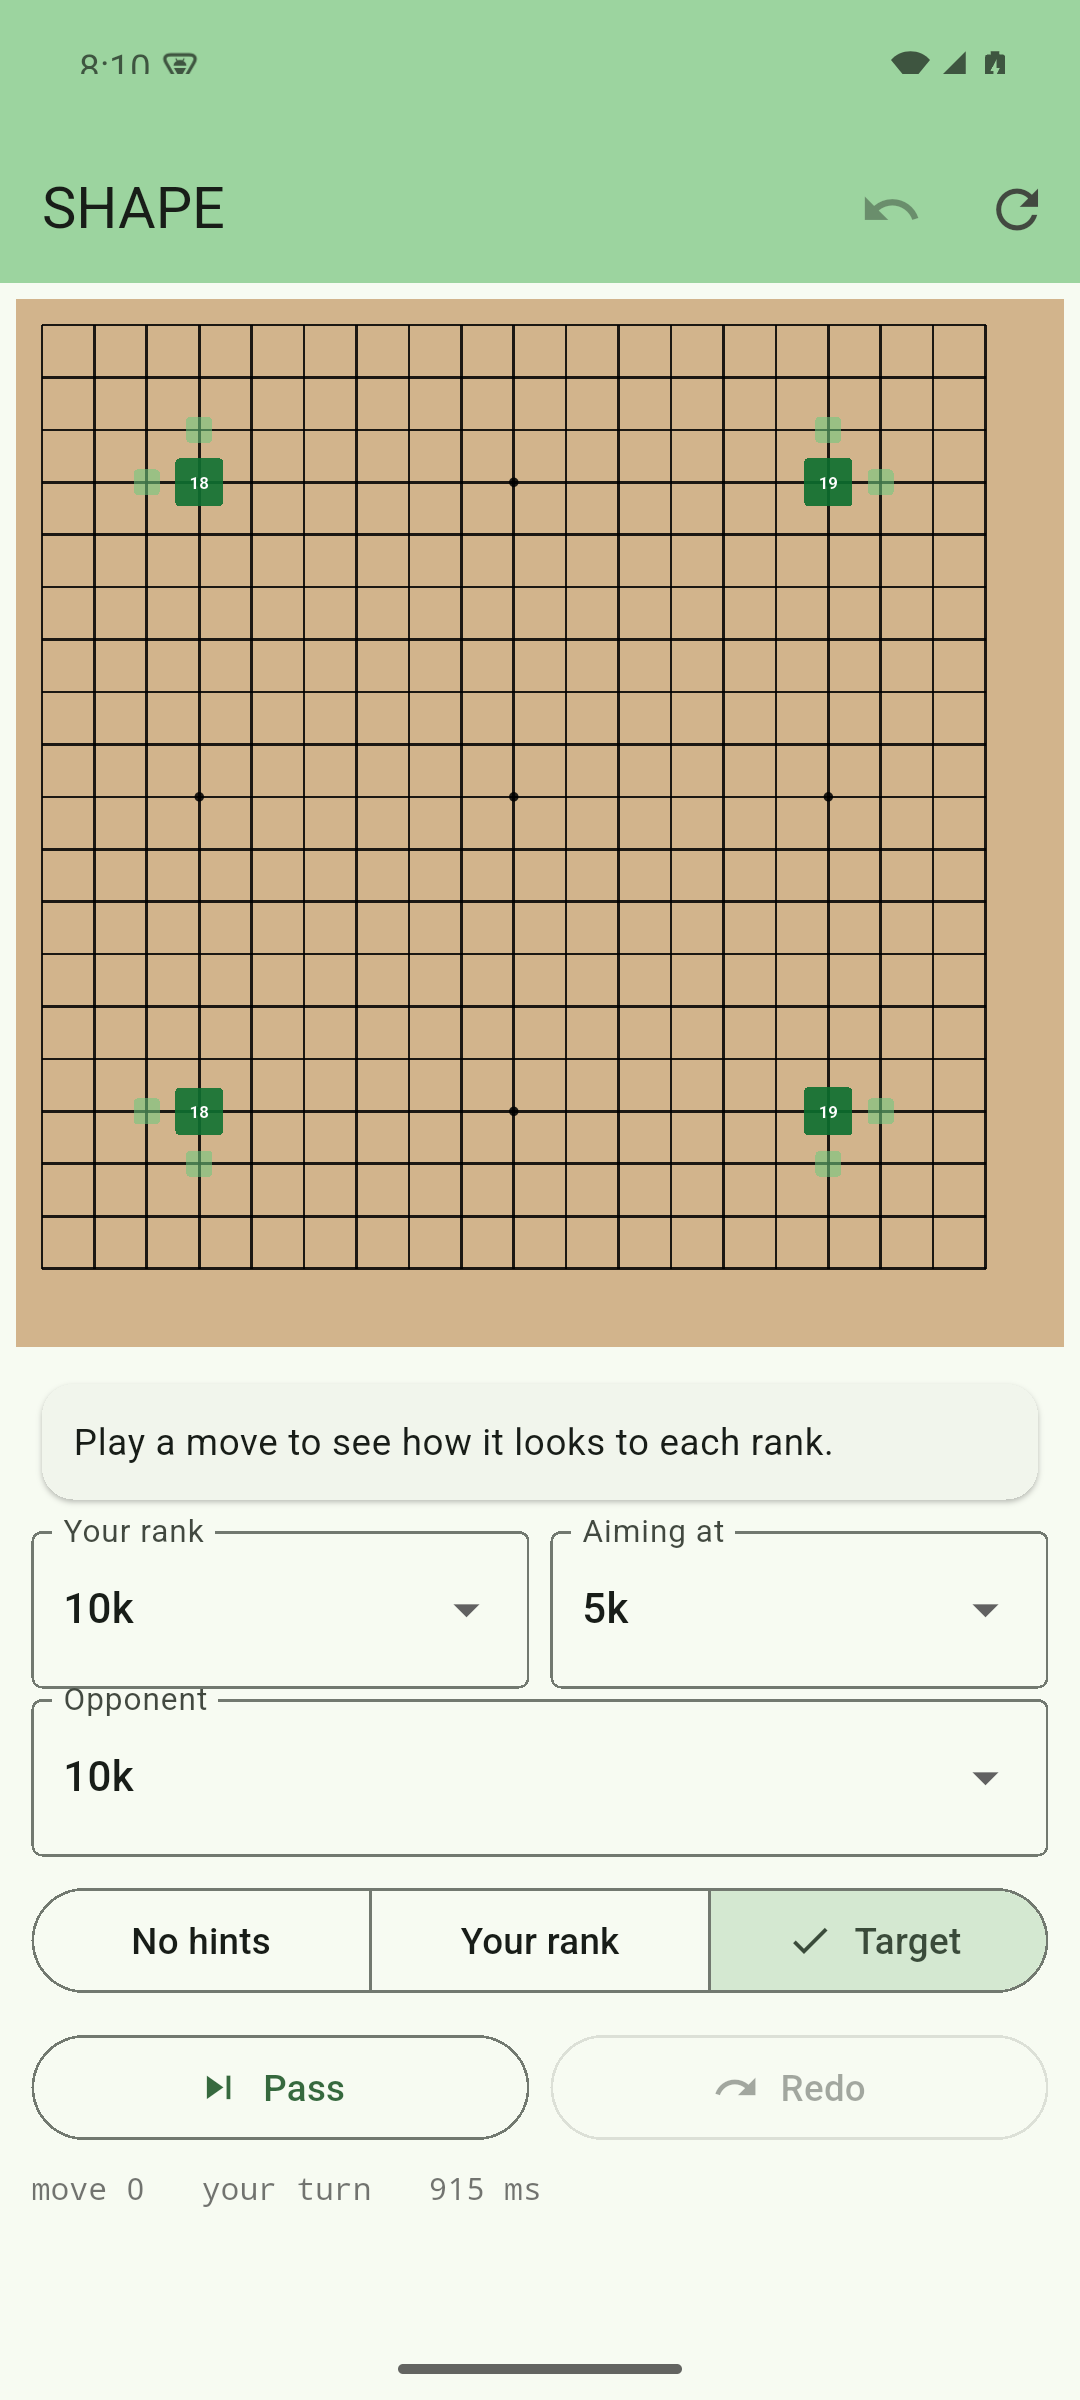
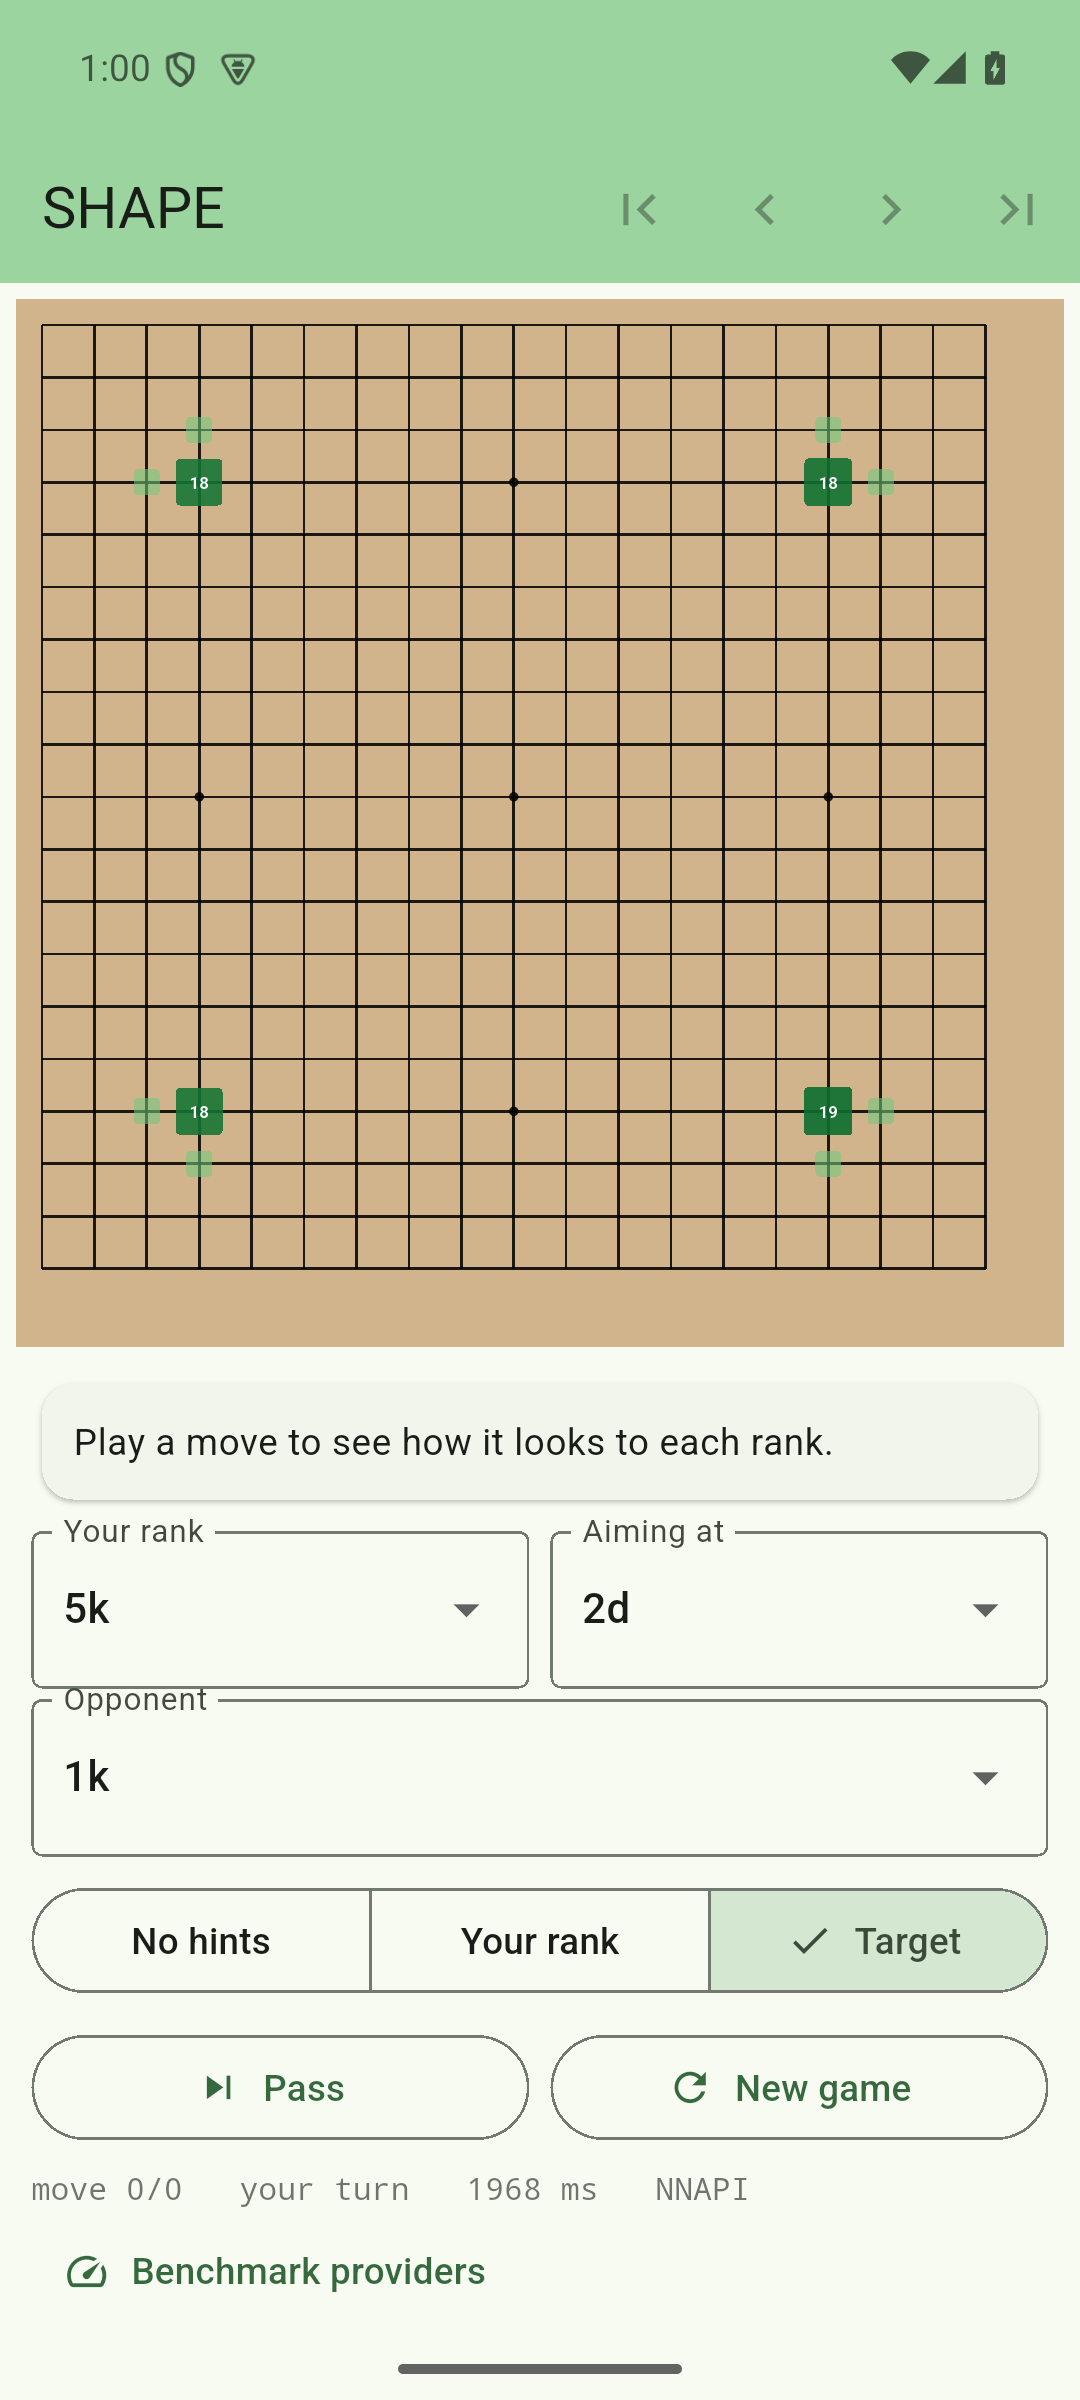
Try NNAPI, add a provider benchmark, stop rebuilding cached positions
Providers: sessions are now created with a preference order of
NNAPI -> XNNPACK -> CPU, falling through on failure, and the active one is shown
in the status line.

That name is not evidence, though: NNAPI partitions the graph and silently runs
unsupported ops on CPU, so a session that "uses NNAPI" can be entirely CPU work.
Added a Benchmark button that creates a session per provider, times it on the
current position and reports ms/eval, so the question is settled by measurement
on the actual device. It also times the Dart featurizer separately -- if the
ladder search dominates, no execution provider will help.

Caching: analyses were already cached per (position, profile), as on desktop,
but _updateFeedback rebuilt the previous position eagerly to pass it in, twice
per update, even on a pure cache hit. The position is now built lazily behind a
callback, and move coordinates are decoded from the current board rather than a
replayed one, since loc encoding depends only on board width. Browsing history
is now free when the data is cached, which is the normal case.

Claude-Session: https://claude.ai/code/session_01WzLv4wq2frvjfwwrF8Y6vq

diff --git a/mobile/shape_slice/lib/engine/analysis.dart b/mobile/shape_slice/lib/engine/analysis.dart
@@ -101,17 +101,99 @@ class ProfileAnalysis {
   ProfileAnalysis(this.policy, this.lead, this.winrate);
 }
 
+/// How one execution provider performed, for the in-app benchmark.
+class ProviderTiming {
+  final String provider;
+  final int? msPerEval;
+  final String? error;
+  const ProviderTiming(this.provider, this.msPerEval, this.error);
+  bool get ok => msPerEval != null;
+}
+
 /// Runs the human-SL net on device.
 class ShapeEngine {
   final OrtSession session;
   final Features features;
   final int posLen;
 
-  ShapeEngine(this.session, this.posLen) : features = Features(posLen);
+  /// Which execution provider initialised. Note this is only the provider ORT
+  /// *accepted*: NNAPI partitions the graph and silently runs unsupported ops on
+  /// CPU, so this being "NNAPI" does not by itself mean the NPU did the work.
+  /// Latency is the only real evidence -- see [benchmarkProviders].
+  final String provider;
 
-  static Future<ShapeEngine> load(String assetPath, {int posLen = 19}) async {
-    final session = await OnnxRuntime().createSessionFromAsset(assetPath);
-    return ShapeEngine(session, posLen);
+  ShapeEngine(this.session, this.posLen, this.provider) : features = Features(posLen);
+
+  /// Preference order on Android: NNAPI (NPU/GPU), then XNNPACK (optimised CPU),
+  /// then plain CPU.
+  static const List<OrtProvider> preferredProviders = [
+    OrtProvider.NNAPI,
+    OrtProvider.XNNPACK,
+    OrtProvider.CPU,
+  ];
+
+  static Future<ShapeEngine> load(
+    String assetPath, {
+    int posLen = 19,
+    List<OrtProvider>? prefer,
+  }) async {
+    Object? lastError;
+    for (final p in prefer ?? preferredProviders) {
+      try {
+        final session = await OnnxRuntime().createSessionFromAsset(
+          assetPath,
+          options: OrtSessionOptions(providers: [p]),
+        );
+        return ShapeEngine(session, posLen, p.name);
+      } catch (e) {
+        lastError = e;
+      }
+    }
+    throw StateError('no execution provider could load the model: $lastError');
+  }
+
+  /// Time each provider on [pos], creating and closing a session per provider.
+  ///
+  /// Deliberately measures rather than trusts: an NNAPI session that falls back to
+  /// CPU for most ops looks identical to a working one until you time it.
+  static Future<List<ProviderTiming>> benchmarkProviders(
+    String assetPath,
+    GoPosition pos, {
+    int posLen = 19,
+    int reps = 3,
+    String profile = 'rank_5k',
+  }) async {
+    final out = <ProviderTiming>[];
+
+    // Featurization is pure Dart and runs identically for every provider, so time it
+    // separately -- if the ladder search dominates, no execution provider will help.
+    final fsw = Stopwatch()..start();
+    for (var i = 0; i < reps; i++) {
+      Features(posLen).fillRowFeatures(pos);
+    }
+    out.add(ProviderTiming('featurizer (Dart)', fsw.elapsedMilliseconds ~/ reps, null));
+
+    for (final p in preferredProviders) {
+      OrtSession? session;
+      try {
+        session = await OnnxRuntime().createSessionFromAsset(
+          assetPath,
+          options: OrtSessionOptions(providers: [p]),
+        );
+        final engine = ShapeEngine(session, posLen, p.name);
+        await engine.analyze(pos, [profile]); // warm up
+        final sw = Stopwatch()..start();
+        for (var i = 0; i < reps; i++) {
+          await engine.analyze(pos, [profile]);
+        }
+        out.add(ProviderTiming(p.name, sw.elapsedMilliseconds ~/ reps, null));
+      } catch (e) {
+        out.add(ProviderTiming(p.name, null, '$e'.split('\n').first));
+      } finally {
+        await session?.close();
+      }
+    }
+    return out;
   }
 
   /// Evaluate [pos] under each of [profiles].

diff --git a/mobile/shape_slice/lib/game/shape_game.dart b/mobile/shape_slice/lib/game/shape_game.dart
@@ -154,17 +154,25 @@ class ShapeGame extends ChangeNotifier {
     await _maybeOpponentMove();
   }
 
-  Future<void> _analyze(int idx, GoPosition p, List<String> profiles) async {
+  /// Analyze position [idx] for [profiles], skipping anything already cached.
+  ///
+  /// The position is built lazily: replaying the line to rebuild it is not free,
+  /// and browsing history is almost always a pure cache hit.
+  Future<void> _analyze(
+    int idx,
+    GoPosition Function() buildPosition,
+    List<String> profiles,
+  ) async {
     final want =
         profiles.where((x) => !(analyses[idx]?.containsKey(x) ?? false)).toList();
     if (want.isEmpty) return;
     final sw = Stopwatch()..start();
-    final result = await engine.analyze(p, want);
+    final result = await engine.analyze(buildPosition(), want);
     analysisMs = sw.elapsedMilliseconds;
     (analyses[idx] ??= {}).addAll(result);
   }
 
-  Future<void> _analyzeCurrent() => _analyze(cursor, pos, activeProfiles);
+  Future<void> _analyzeCurrent() => _analyze(cursor, () => pos, activeProfiles);
 
   /// Points the side that just moved gave up, per the reference profile.
   ///
@@ -192,18 +200,19 @@ class ShapeGame extends ChangeNotifier {
     if (move.pla != humanColor || move.isPass) return;
 
     final beforeIdx = cursor - 1;
-    // Browsing back to an old move may land on a position we never evaluated.
-    await _analyze(beforeIdx, _positionAt(beforeIdx), _feedbackProfiles);
-    await _analyze(cursor, pos, _feedbackProfiles);
+    // Normally both are already cached from when they were played; this only does
+    // work if hints were off then, or the ranks changed since.
+    await _analyze(beforeIdx, () => _positionAt(beforeIdx), _feedbackProfiles);
+    await _analyze(cursor, () => pos, _feedbackProfiles);
 
     final before = analyses[beforeIdx];
     final player = before?[playerRank];
     final target = before?[targetRank];
     if (player == null || target == null) return;
 
-    final board = _positionAt(beforeIdx).board;
-    final x = board.locX(move.loc);
-    final y = board.locY(move.loc);
+    // loc encodes x/y purely from board width, so the current board decodes it.
+    final x = pos.board.locX(move.loc);
+    final y = pos.board.locY(move.loc);
     final (pProb, pRel) = player.policy.at(x, y);
     final (tProb, tRel) = target.policy.at(x, y);
     feedback = MoveFeedback(
@@ -261,7 +270,7 @@ class ShapeGame extends ChangeNotifier {
     busy = true;
     notifyListeners();
     try {
-      await _analyze(cursor, pos, [opponentRank]);
+      await _analyze(cursor, () => pos, [opponentRank]);
       final analysis = analyses[cursor]?[opponentRank];
       if (analysis != null) {
         final candidates = analysis.policy.sample(topK: topK, topP: topP, minP: minP);
@@ -377,14 +386,13 @@ class ShapeGame extends ChangeNotifier {
     final b = StringBuffer('(;GM[1]FF[4]CA[UTF-8]SZ[$boardSize]KM[6.5]RU[Japanese]');
     b.write('PB[${humanColor == Board.black ? rankLabel(playerRank) : rankLabel(opponentRank)}]');
     b.write('PW[${humanColor == Board.white ? rankLabel(playerRank) : rankLabel(opponentRank)}]');
-    final full = _positionAt(0).board;
     for (final m in line) {
       final tag = m.pla == Board.black ? 'B' : 'W';
       if (m.isPass) {
         b.write(';$tag[]');
       } else {
-        final x = full.locX(m.loc);
-        final y = full.locY(m.loc);
+        final x = pos.board.locX(m.loc);
+        final y = pos.board.locY(m.loc);
         b.write(';$tag[${String.fromCharCode(97 + x)}${String.fromCharCode(97 + y)}]');
       }
     }

diff --git a/mobile/shape_slice/lib/main.dart b/mobile/shape_slice/lib/main.dart
@@ -39,6 +39,7 @@ class _HomePageState extends State<HomePage> {
   Object? loadError;
   String status = 'loading model…';
   HintMode hints = HintMode.target;
+  bool benchmarking = false;
 
   @override
   void initState() {
@@ -231,11 +232,64 @@ class _HomePageState extends State<HomePage> {
             child: Column(crossAxisAlignment: CrossAxisAlignment.start, children: [
               Text('move ${g.cursor}/${g.line.length}   '
                   '${g.gameOver ? "game over" : (g.humanToPlay ? "your turn" : "opponent…")}   '
-                  '${g.analysisMs} ms'),
+                  '${g.analysisMs} ms   ${g.engine.provider}'),
               if (g.error != null)
                 Text(g.error!, style: const TextStyle(color: Colors.red, fontSize: 12)),
             ]),
           ),
+          Align(
+            alignment: Alignment.centerLeft,
+            child: TextButton.icon(
+              onPressed: g.busy || benchmarking ? null : () => _benchmark(g),
+              icon: const Icon(Icons.speed, size: 18),
+              label: Text(benchmarking ? 'Benchmarking…' : 'Benchmark providers'),
+            ),
+          ),
+        ],
+      ),
+    );
+  }
+
+  Future<void> _benchmark(ShapeGame g) async {
+    setState(() => benchmarking = true);
+    List<ProviderTiming> results;
+    try {
+      results = await ShapeEngine.benchmarkProviders(kModelAsset, g.pos);
+    } catch (e) {
+      results = [ProviderTiming('benchmark failed', null, '$e')];
+    }
+    if (!mounted) return;
+    setState(() => benchmarking = false);
+    showDialog<void>(
+      context: context,
+      builder: (_) => AlertDialog(
+        title: const Text('Per-eval time'),
+        content: Column(
+          mainAxisSize: MainAxisSize.min,
+          crossAxisAlignment: CrossAxisAlignment.start,
+          children: [
+            for (final r in results)
+              Padding(
+                padding: const EdgeInsets.symmetric(vertical: 3),
+                child: Text(
+                  r.ok ? '${r.provider.padRight(18)} ${r.msPerEval} ms' : '${r.provider}: ${r.error}',
+                  style: TextStyle(
+                    fontFamily: 'monospace',
+                    fontSize: 12,
+                    color: r.ok ? Colors.black87 : Colors.red,
+                  ),
+                ),
+              ),
+            const SizedBox(height: 8),
+            const Text(
+              'A provider can accept the model and still run most ops on CPU, so '
+              'compare the numbers rather than trusting the name.',
+              style: TextStyle(fontSize: 11, color: Colors.black54),
+            ),
+          ],
+        ),
+        actions: [
+          TextButton(onPressed: () => Navigator.pop(context), child: const Text('Close')),
         ],
       ),
     );
